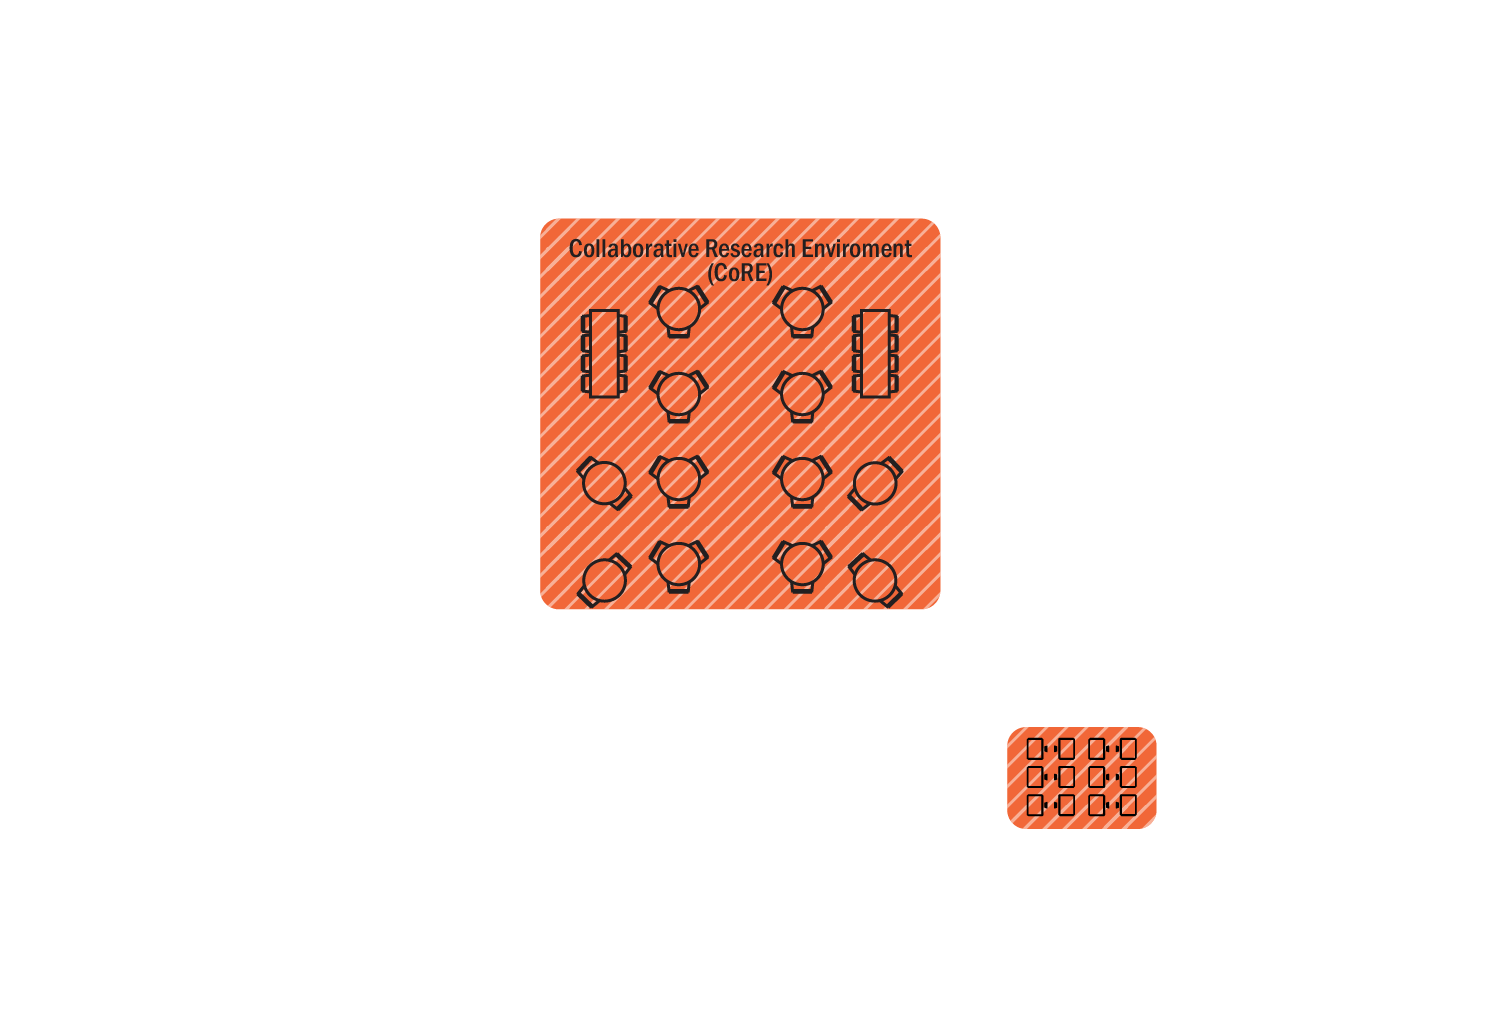
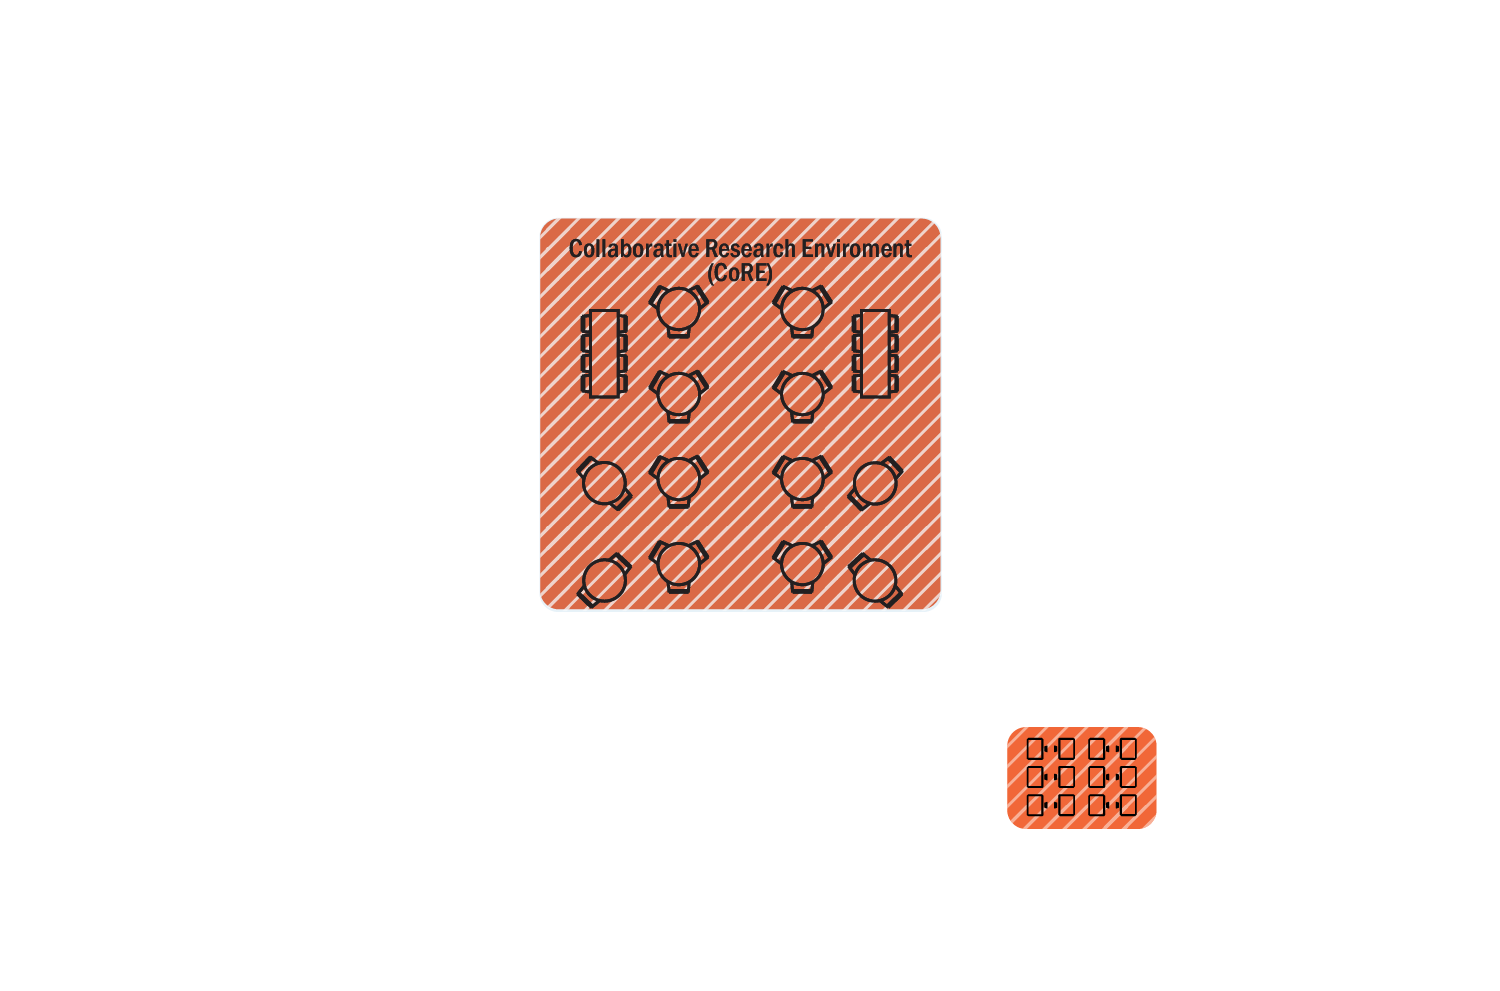
fix lab computer highlight. add to computer lab info

Changed region(s): [[0.3373, 0.2119, 0.644, 0.6357], [0.6747, 0.6963, 0.7667, 0.8476]]

diff --git a/js/wayfinding.js b/js/wayfinding.js
@@ -13,7 +13,7 @@ $("#four .mapoverlay").hide();
 // To change what text is displayed, edit or add it here.
 info_map = {
 	"bathrooms": ["", ["1_bathrooms.png", "2_bathrooms.png", "3_bathrooms.png", "4_bathrooms.png"]],
-	"computers": ["", ["1_computers.png", "2_computerlabs.png"]],
+	"computers": ["Lab computers are available on the first and second floors. Some have attached scanners as well.", ["1_computers.png", "2_computerlabs.png"]],
 	"copycenters": ["", ["1_copycenter.png", "2_copycenter.png"]],
 	"groupstudyzones": ["<p><strong>Collaborative Areas / Group Study Zones </strong></p> <p>Talking and group work are permitted on on the first and second floors. The third and fourth floors are for quiet study, with the exception of the group study rooms.", ["1_groupstudyzone.png", "2_groupstudyzone.png"]],
 	"1_assistivetechnology": ["", ["1_assistivetechnology.png"]],

diff --git a/includes/info-floor.html b/includes/info-floor.html
@@ -88,6 +88,7 @@
                         <div id="collapse3" class="panel-collapse collapse">
                           <ul>
 								<li class="li"><a href="#/" onClick="show_info_panel('3_callnumbers0699');">Books (Call Numbers 0-699)</a> </li>
+								<li class="li"><a href="#/" onClick="show_info_panel('computers');">Computers</a> </li>
                                 <li class="li"><a href="#/" onClick="show_info_panel('guestcomputers');">Guest Computer</a> </li>
                                 <li class="li"><a href="#/" onClick="show_info_panel('groupstudyrooms');">Group Study Rooms</a> </li>
                                 <li class="li"><a href="#/" onClick="show_info_panel('quietstudyzones');">Quiet Study Zones</a> </li>

diff --git a/maps.php b/maps.php
@@ -40,6 +40,7 @@
 				<img class="mapoverlay" width="1500" height="1016">
 				<map name="second" id="second">
                     <area shape="rect" coords="511,195,971,642" href="#/" title="core" alt="CoRE – Collaborative Research Environment" id="2_core">
+                    <area shape="rect" coords="998,722,1162,832" href="#/" title="computers" alt="Computer Lab" id="computers">
                     <area shape="rect" coords="57,455,154,539" href="#/" title="makerhub" alt="Maker Hub" id="2_makerhub">
                     <area shape="rect" coords="56,292,150,450" href="#/" title="studios" alt="Media Studios" id="2_studios">
                     <area shape="rect" coords="153,33,242,159" href="#/" title="206" alt="Room 206" id="2_206">
